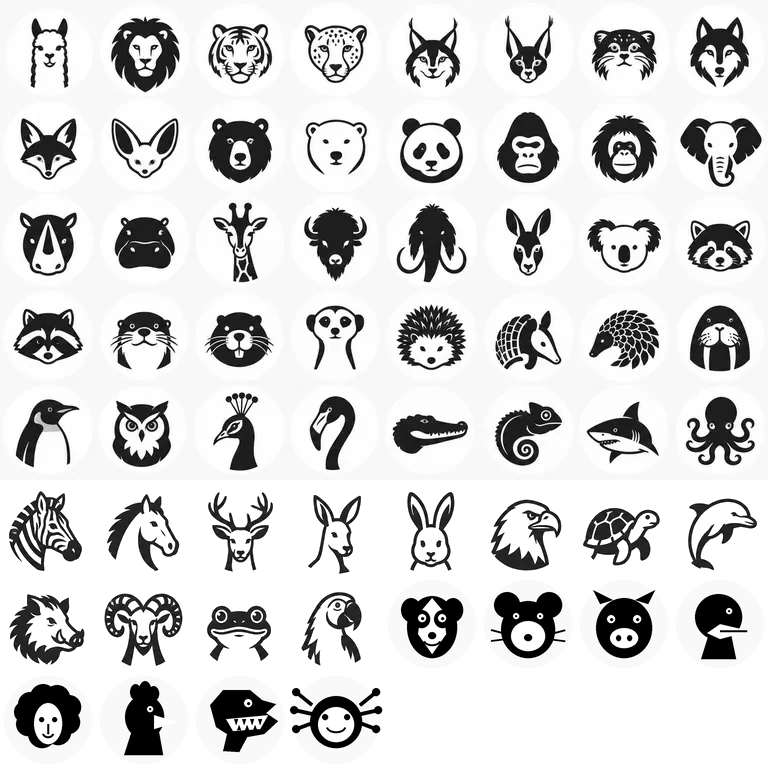
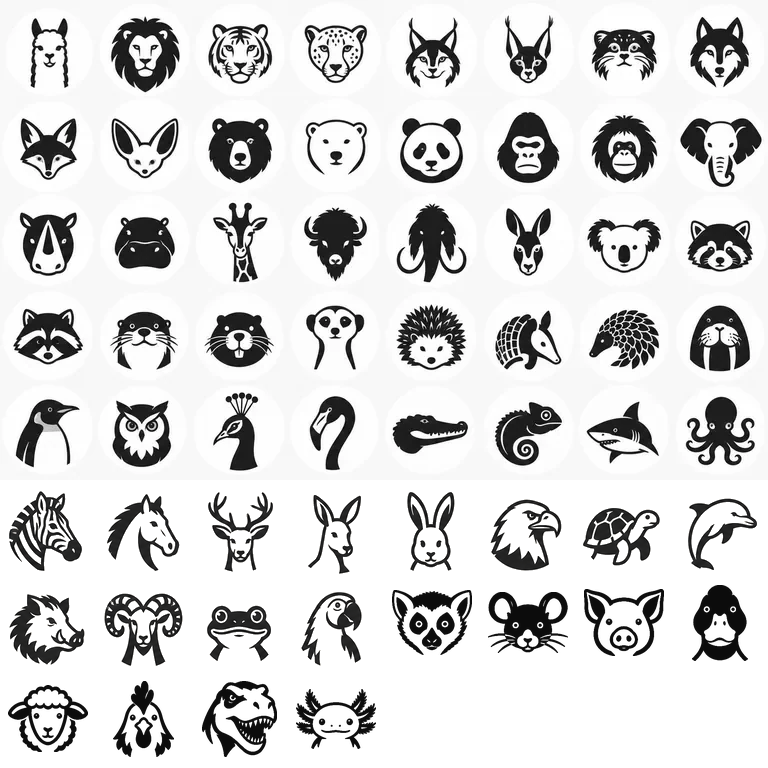
javított Avatar60 build

diff --git a/app.js b/app.js
@@ -221,7 +221,7 @@ const PLAYER_AVATARS = [
   ['extra_zebra','',40],['extra_horse','',41],['extra_deer','',42],['extra_kangaroo','',43],
   ['extra_rabbit','',44],['extra_eagle','',45],['extra_turtle','',46],['extra_dolphin','',47],
   ['extra_boar','',48],['extra_ram','',49],['extra_frog','',50],['extra_parrot','',51],
-  // V2.3.10.26O-P9 additions — same monochrome sprite language, 8×8 atlas.
+  // V2.3.10.26O-P10 artwork refinement — same 60 IDs, 8×8 atlas; original 52 cells unchanged.
   ['extra_lemur','',52],['extra_mouse','',53],['extra_pig','',54],['extra_duck','',55],
   ['extra_sheep','',56],['extra_chicken','',57],['extra_trex','',58],['extra_axolotl','',59]
 ].map(([id,label,spriteIndex])=>({id,label,spriteIndex}));

diff --git a/styles.css b/styles.css
@@ -5564,7 +5564,7 @@ body.planner-grid-page-lock{
   display:block;
   width:100%;
   height:100%;
-  background-image:url('./icons/avatar-sprite.webp?v=2375');
+  background-image:url('./icons/avatar-sprite.webp?v=avatar60-p10');
   background-repeat:no-repeat;
   background-size:800% 800%;
   border-radius:50%;
@@ -9176,7 +9176,7 @@ dialog[open]:focus{
 
 
 /* ==========================================================
-   PLAYER V2.3.10.26O-P9 — AVATAR 60 + TEAM-UNIQUE PICKER
+   PLAYER V2.3.10.26O-P10 — AVATAR 60 ARTWORK REFINEMENT + TEAM-UNIQUE PICKER
    ========================================================== */
 .avatar-option.taken,
 .avatar-option:disabled{

diff --git a/index.html b/index.html
@@ -467,7 +467,7 @@
       <div class="settings-footer-actions">
         <button class="ghost-btn settings-wide-btn" id="settingsRefreshBtn">↻ Adatok újratöltése</button>
         <button class="ghost-btn settings-wide-btn danger-outline" id="logoutBtn">Kijelentkezés</button>
-        <div class="settings-build-line"><span>Build</span><b>Player V2.3.10.26O-P9</b></div>
+        <div class="settings-build-line"><span>Build</span><b>Player V2.3.10.26O-P10</b></div>
       </div>
     </div>
   </dialog>

diff --git a/sw.js b/sw.js
@@ -1,4 +1,4 @@
-const CACHE='club-control-player-v2-3-10-26o-p9-avatar60-unique';
+const CACHE='club-control-player-v2-3-10-26o-p10-avatar60-art-refine';
 const CORE=[
   './manifest.webmanifest',
   './icons/icon-192.png',
@@ -8,7 +8,7 @@ const CORE=[
   './icons/event-training-mask.png',
   './icons/event-home-mask.png',
   './icons/event-away-mask.png',
-  './icons/avatar-sprite.webp?v=avatar60-p9'
+  './icons/avatar-sprite.webp?v=avatar60-p10'
 ];
 
 self.addEventListener('install', event => {

diff --git a/CC_11X_REVIEW_P10.md b/CC_11X_REVIEW_P10.md
@@ -1,0 +1,27 @@
+# Player V2.3.10.26O-P10 — 11× QA
+
+1. Product — PASS static: 60 avatars; same-team duplicate prevention.
+2. UX — PASS static: occupied avatars disabled; current own avatar remains selectable.
+3. UI — PASS static: 8×8 monochrome sprite; original 52 preserved; new 8 follow same black/white head-icon language.
+4. Frontend/PWA — PASS static: app.js syntax; service-worker cache bumped; sprite cache URL bumped.
+5. Backend/API — PASS by source review: new team-scoped directory RPC is additive; legacy directory remains fallback.
+6. DB/data integrity — PASS by source review: install aborts on pre-existing same-team duplicates; trigger prevents future conflicts.
+7. Architecture — PASS: player_settings.avatar_id remains canonical; no parallel avatar store.
+8. Security — PASS by source review: authenticated directory is SECURITY DEFINER and exposes only playerId/avatarId for overlapping active teams; no secrets.
+9. QA/accessibility — PASS static: 60 unique IDs/indexes 0..59; occupied buttons are disabled + aria-disabled/title.
+10. DevOps — PASS: PRECHECK/INSTALL/POSTCHECK provided; frontend deploy is explicit.
+11. Motion/interaction — PASS static: FINAL notification swipe code not edited; avatar click saves immediately and rolls back on conflict.
+
+Static checks:
+- JS syntax: PASS
+- CSS braces: PASS
+- duplicate HTML ids: 0
+- sprite: 768×768, 8×8 atlas
+- original avatar pixels 0..51: preserved
+- live authenticated smoke: PENDING
+
+## P10 artwork-specific verification
+- Original avatar indices 0–51: pixel-identical to the uploaded 52-avatar source after decode.
+- New indices 52–59: approved monochrome artwork integrated into the 8×8 atlas.
+- Player asset and legacy `assets/player-animals.webp` use the same atlas.
+- Team-unique avatar RPC/trigger logic unchanged from P9.
